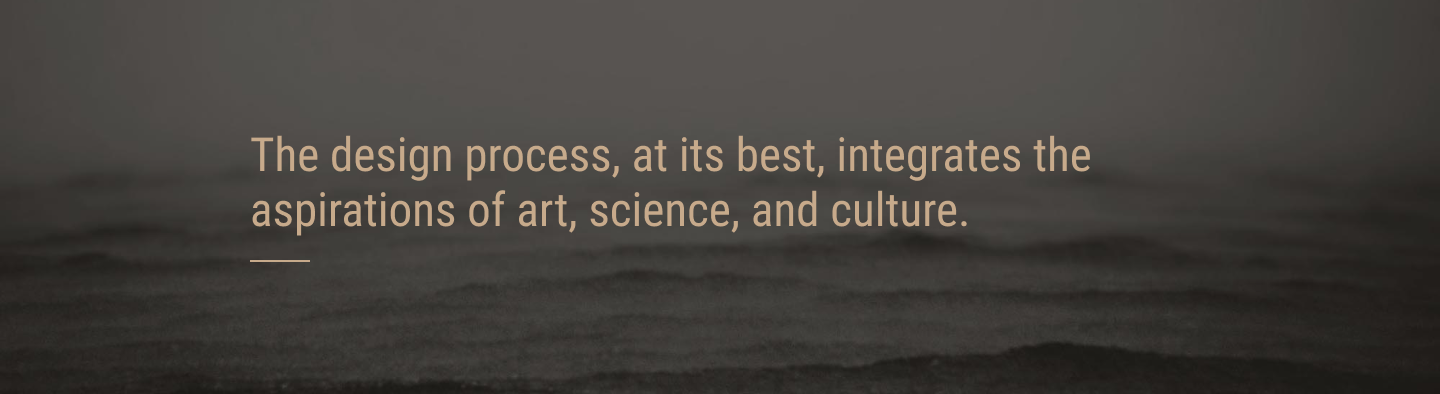
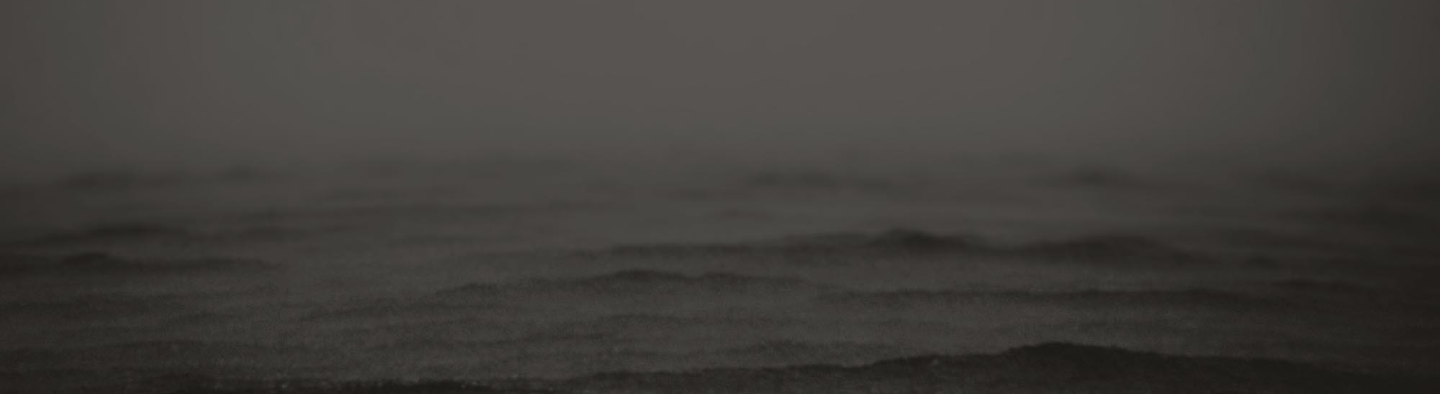
add mission

Changed region(s): [[0.1562, 0.335, 0.7812, 0.4569], [0.1562, 0.4873, 0.6875, 0.5787], [0.1875, 0.6396, 0.2188, 0.6701]]

diff --git a/index.html b/index.html
@@ -38,10 +38,6 @@
     </header>
 
     <main class="main">
-
-
-
-
         <!-- <div class="section">
             <div class="section__container container container--full">
                 <div class="section__wrapper">
@@ -105,22 +101,26 @@
             </div>
         </section>
 
+        <section class="mission container">
+            <div class="mission__wrapper wrapper">
+                <p class="mission__text">The design process, at its best, integrates the aspirations of art, science, and culture.</p>
+                <div class="mission__divider divider"></div>
 
-        <div class="container mission__container">
-            <div class="wrapper mission__wrapper">
-                <p class="mission">
-                    <p>The design process, at its best, integrates the aspirations of art, science, and culture.</p>
-
-                </section>                    
             </div>
-        </div>
-        <div class="container">
-            <div class="container__wrapper">
-                <section class="team">
+        </section>
 
-                </section>                    
+        <section class="team container">
+            <div class="team__wrapper wrapper">
+                <h2 class="team__header">The Team</h2>
+                <ul class="team__list">
+
+                </ul>
             </div>
-        </div>
+        </section>
+
+
+
+
         <div class="container">
             <div class="container__wrapper">
                 <section class="testimonials">

diff --git a/css/style.css b/css/style.css
@@ -228,8 +228,27 @@ body {
     margin-bottom: 86px;
 }
 
-.mission__container {
+.mission {
     background-image: url(../img/bg_mission.png);
     background-repeat: no-repeat;
     background-size: cover;
+    
 }
+
+.mission__wrapper {
+    flex-direction: column;
+}
+
+.mission__text {
+    font-size: 47px;
+    line-height: 55px;
+    color: #C7AA8B;
+    margin-top: 127px;
+}
+
+.mission__divider {
+    border-top-color: #C7AA8B;
+    margin-top: 30px;
+    margin-bottom: 127px;
+}
+
